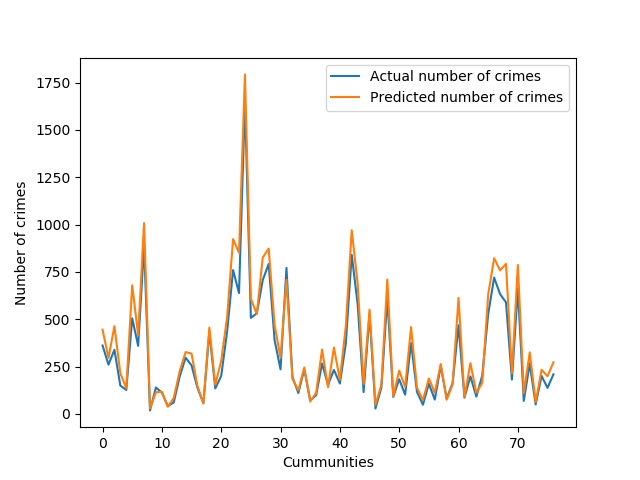
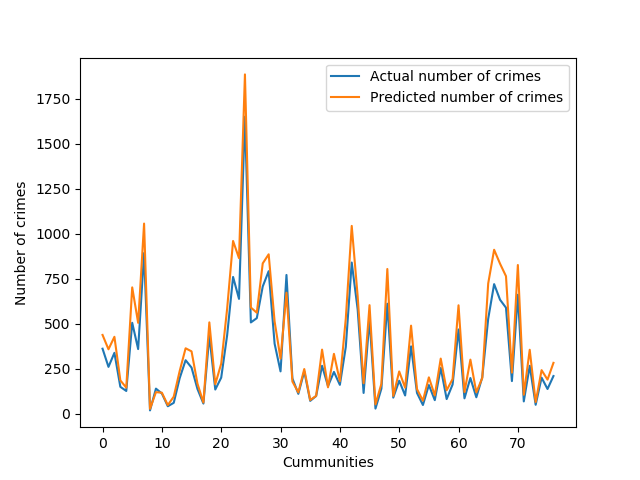
Updated regression

diff --git a/Code/Analysis/linear_regression.py b/Code/Analysis/linear_regression.py
@@ -11,6 +11,8 @@ import pandas as pd
 from pandas import Series
 import numpy as np
 import matplotlib.pyplot as plt
+from sklearn.preprocessing import MinMaxScaler
+from sklearn import svm
 from sklearn.preprocessing import PolynomialFeatures
 from sklearn.preprocessing import normalize
 from scipy.interpolate import *
@@ -161,7 +163,11 @@ class Regression:
     def auto_regression (self):
         """ Returns auto regression output. """
 
-        # Find best lag using auto correlation
+        #Output list
+        self.result = {}
+        self.error = {}
+
+        # Get data
         self._get_data ()
 
         # Find the optimal lag
@@ -171,12 +177,12 @@ class Regression:
         print ("Test")
         print (test)
 
-        predictions = {}
-
         # Train
-        for community in range (1, 78):
-            predictions[community] = {}
-            for month in range (1, 13):
+        for month in range (1, 13):
+            self.result[month] = []
+            self.error[month] = []
+
+            for community in range (1, 78):
                 train1 = np.array (train[community][month])
                 train1 = train1.reshape (-1, 1)
                 test1 = test[community][month]
@@ -189,9 +195,69 @@ class Regression:
                 #print('Coefficients: %s' % model_fit.params)
 
                 # Test
-                predictions[community][month] = model_fit.predict(start=len(train1), end=len(train1)+len(test1)-1, dynamic=False)
+                out = model_fit.predict(start=len(train1), end=len(train1)+len(test1)-1, dynamic=False)
+                t_output = test1
 
-                print('predicted={}, expected={}'.format(predictions[community][month], test1))
+                #print('predicted={}, expected={}'.format(predictions[community][month], test1))
+                self.result[month].append ([float (t_output[0]), float (out[0])])
+                self.error[month].append((abs(t_output - out) / t_output))
+
+    def regression_svr (self, sim_num=3):
+        """ Using libsvm in scklearn, preform regression. """
+
+        #Output list
+        self.result = {}
+        self.error = {}
+
+        # Get data
+        self._get_data ()
+
+        #Loop over all year and months. Predict for 2015
+        for month in range (1, 13):
+            self.result[month] = []
+            self.error[month] = []
+
+            for comm_no in range (1, 78):
+                matrix = []
+                output = []
+
+                for year in range (2011, 2015):
+                    arr = self.sim_arr[year][month]
+                    attr = self.attr_arr[year][month]
+
+                    #Get top two similar communities for this community
+                    index = self.n_similar_communities (sim_num, comm_no, arr)
+
+                    [temp_matrix, temp_output] = self.process_attributes (index, attr)
+                    matrix.append (temp_matrix)
+                    output.append (temp_output)
+
+                #Get the attributes for 2015
+                index = self.n_similar_communities (sim_num, comm_no, self.sim_arr[2015][month])
+                [test, t_output] = self.process_attributes (index, self.attr_arr[2015][month])
+
+                #Convet to np array
+                matrix = np.array (matrix)
+                output = np.array (output)
+
+                #Polynomial regression with degree 2
+                clf = svm.SVR ()
+                sc = MinMaxScaler(feature_range=(0, 1))
+                X_ = sc.fit_transform (matrix)
+
+                # Train
+                clf.fit (X_, output)
+
+                # Test
+                test = np.array (test, ndmin=2)
+                t_output = np.array (t_output, ndmin=2)
+                predict_ = sc.transform (test)
+
+                out = clf.predict (predict_)
+                print ("\t(Actual, Predicted) = ({}, {})".format (t_output, out))
+
+                self.result[month].append ([float (t_output), float (out)])
+                self.error[month].append((abs(t_output - out) / t_output))
 
     def get_sim_matrix (self, year, month=1):
         """ Return similarity matrix for a given year. """
@@ -333,14 +399,14 @@ class Regression:
 
         print (self.result)
         for month in self.result:
-            print ("Month: %s"%month)
-            result = np.array(self.result[month])
+            #print ("Month: %s"%month)
+            #result = np.array(self.result[month])
             #result = self.result[month]
-            print (result.shape)
-            print (self.result[month])
+            #print (result.shape)
+            #print (self.result[month])
             #print("Result: ", sum(self.error[month])) 
-            np.squeeze (result)
-            print (result.shape)
+            #np.squeeze (result)
+            #print (result.shape)
 
             np.savetxt (path[month], self.result[month])
 
@@ -404,16 +470,18 @@ def main ():
 
     path = {}
     for month in range (1, 13):
-        path[month] = "../../Data/Total_Data/Output/predict_" + str(month) + ".csv"
+        path[month] = "../../Data/Total_Data/Output/Poly/predict_" + str(month) + ".csv"
 
     reg = Regression ()
-    #reg.linear_regression ()
-    #reg.print_results (path)
-    reg.auto_regression ()
+    reg.linear_regression ()
+    #reg.auto_regression ()
+    #reg.regression_svr ()
+    reg.print_results (path)
 
-    for i in range (1, 13):
+    #for i in range (1, 13):
     #for i in range (1):
-        print("Month: {}".format(i))
-        reg.plot_results ("../../Data/Total_Data/Output/plot_{}.png".format(i), i)
+    #    print("Month: {}".format(i))
+        #reg.plot_results ("../../Data/Total_Data/Output/plot_{}.png".format(i), i)
+        #reg.plot_results ("../../Data/Total_Data/Output/plot_{}.png".format(i), i)
 
 main ()
